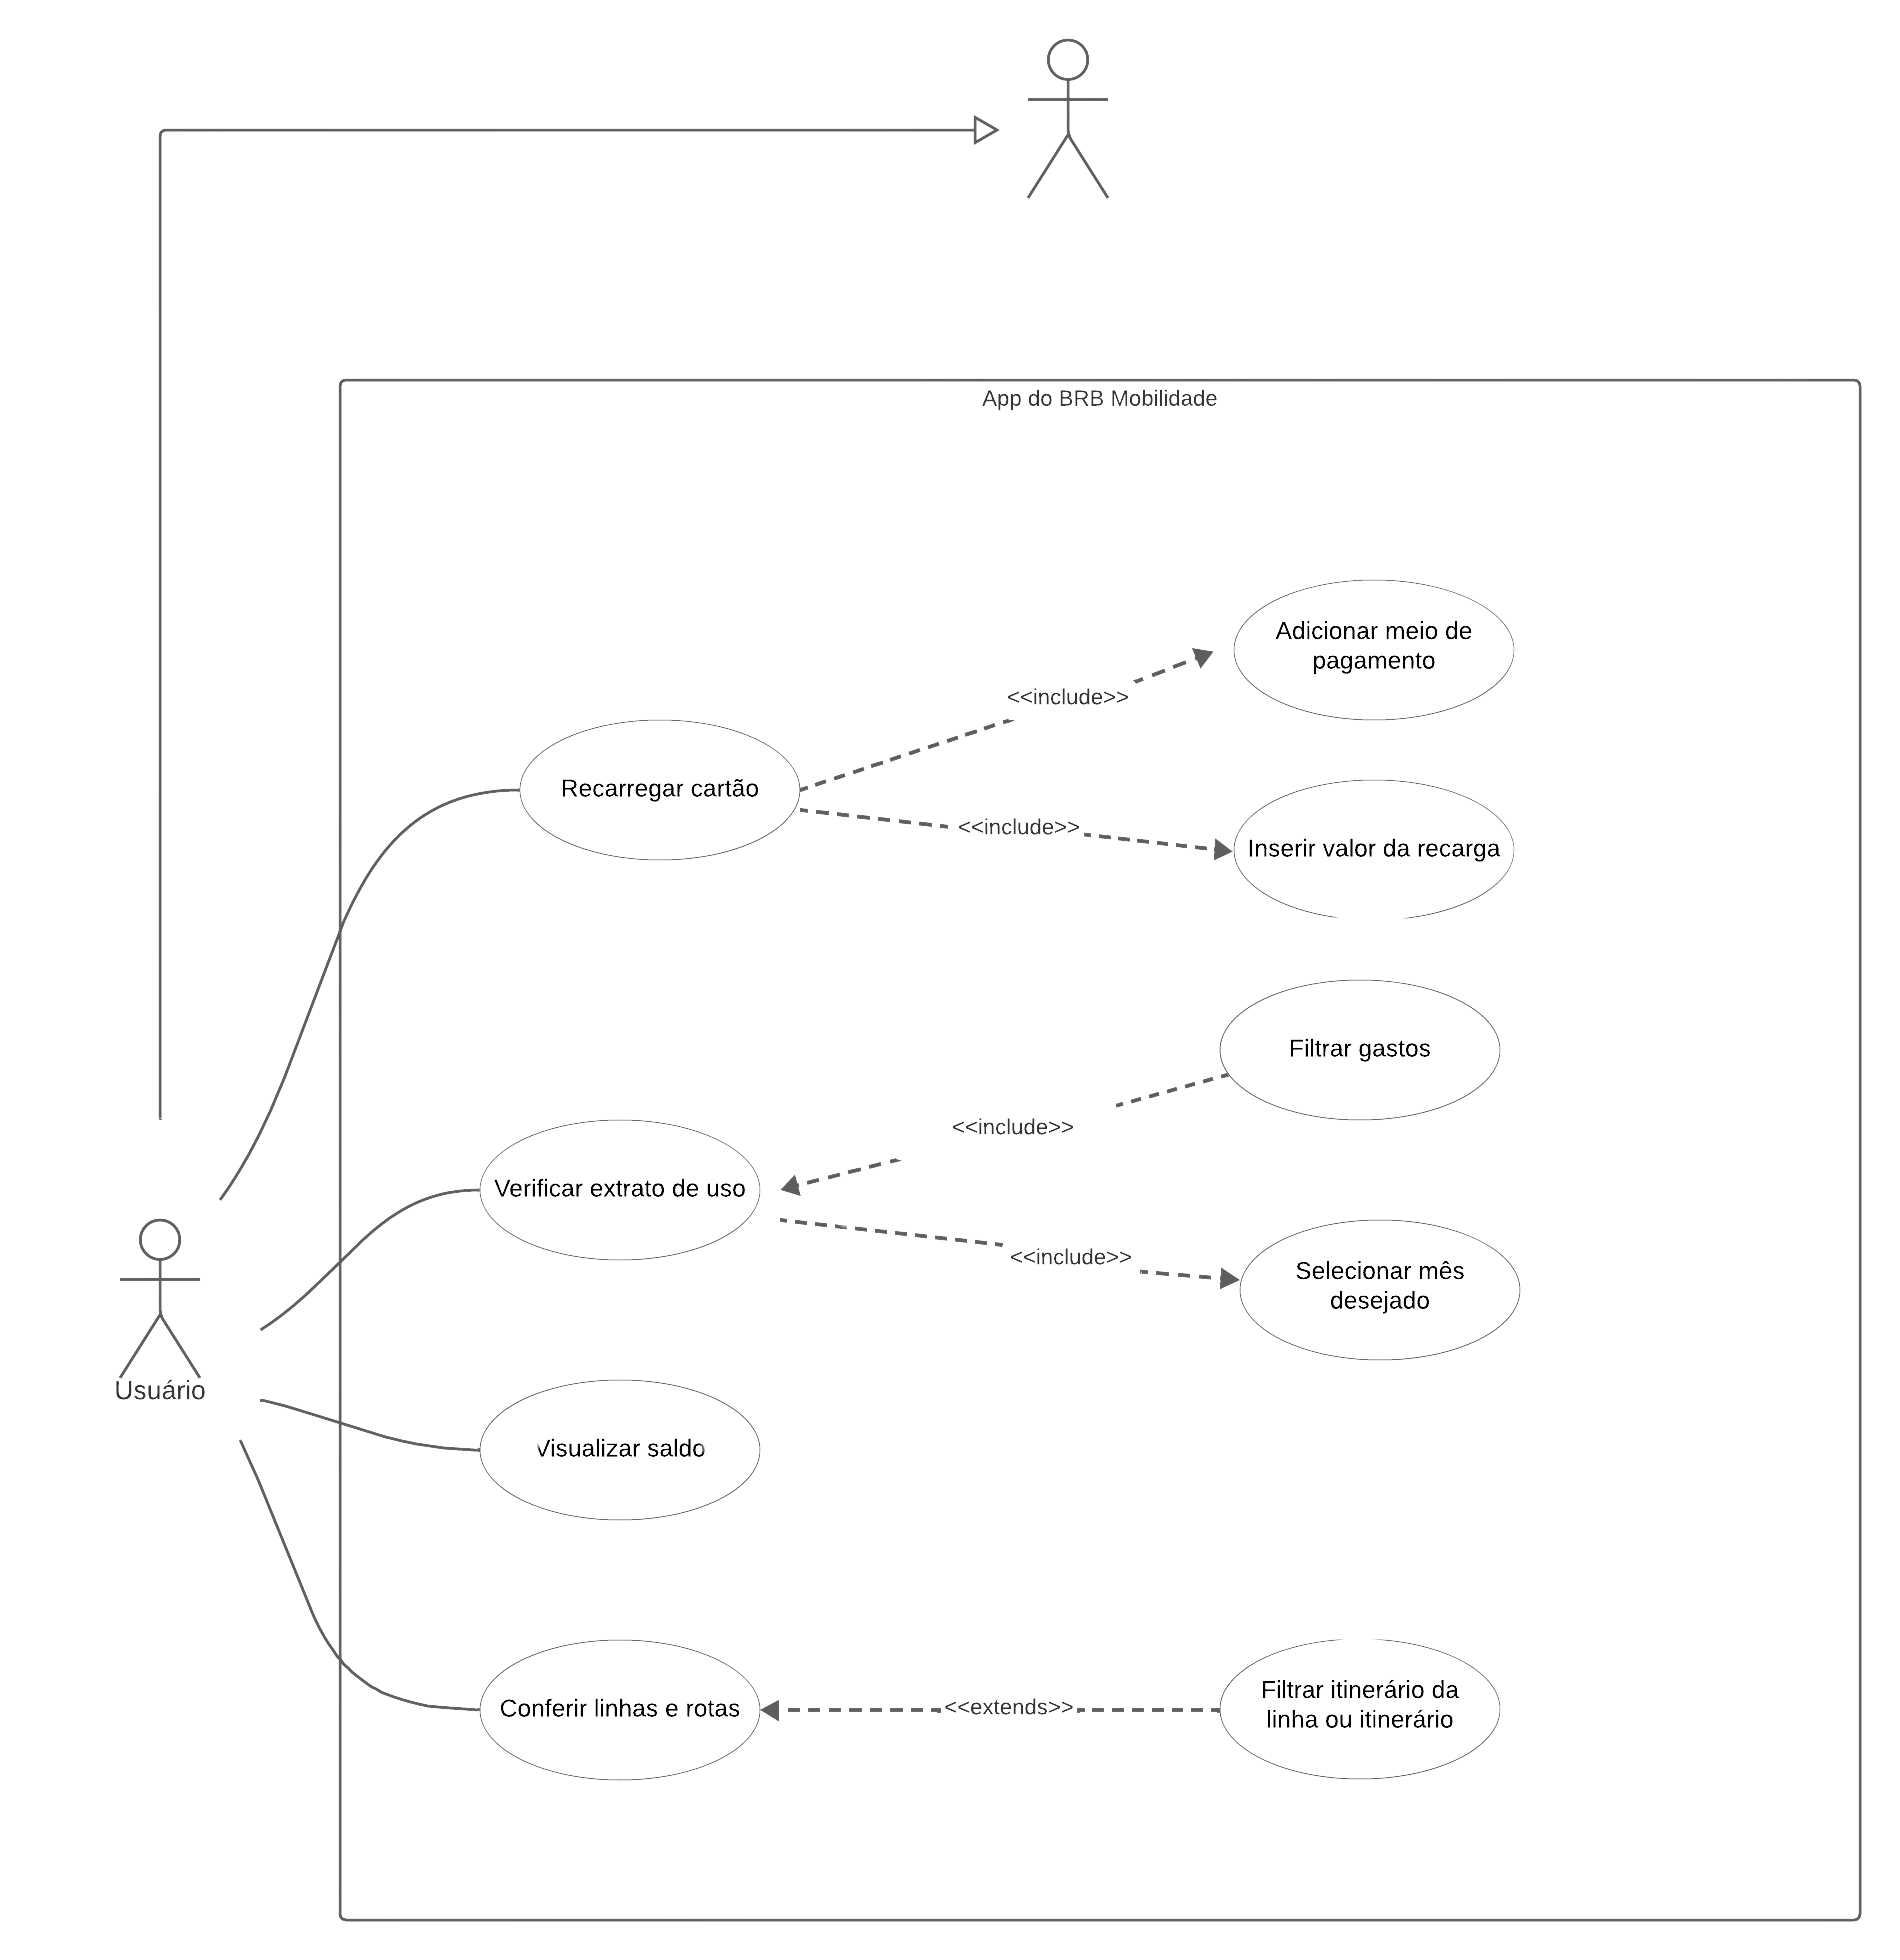
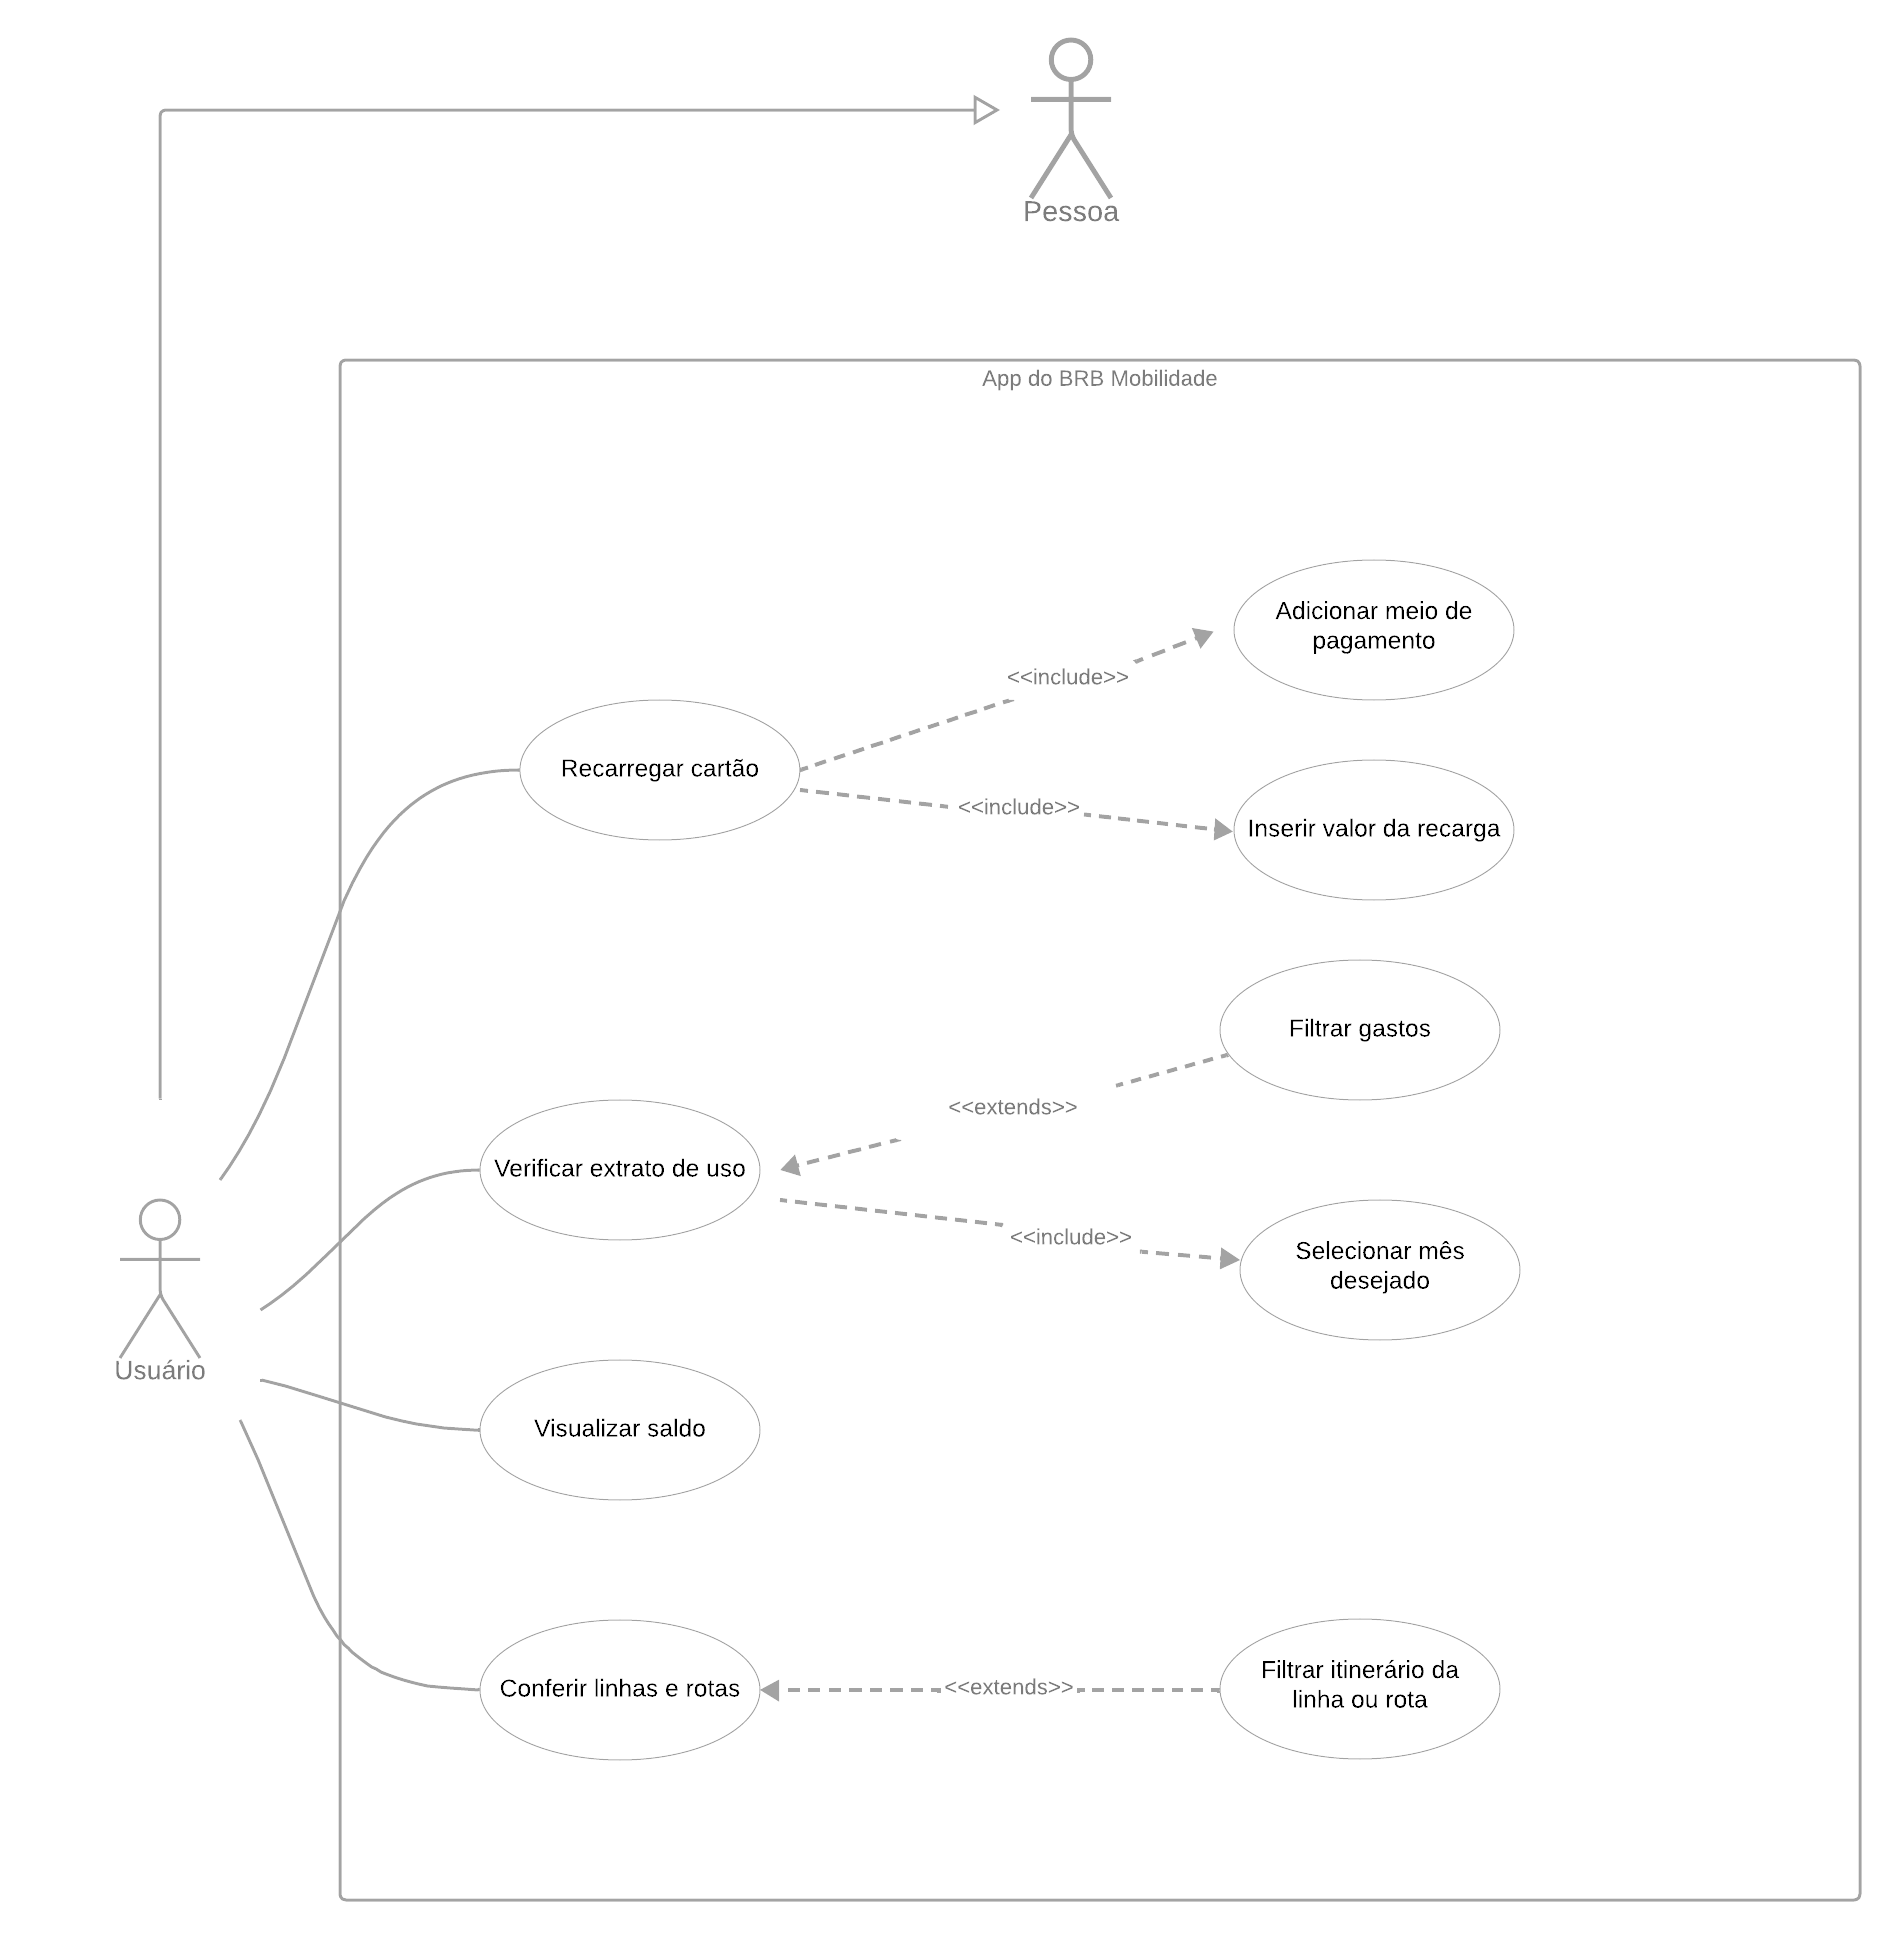
docs: corrige erros de ortografia de casos de uso

diff --git a/docs/modelagem/useCase.md b/docs/modelagem/useCase.md
@@ -17,6 +17,8 @@ Um diagrama de caso de uso é uma representação visual de casos de uso, atores
 
 <font size="2"><p style="text-align: center"><b>Tabela 1: Elementos do diagrama de casos de uso (Fonte: <a href="https://github.com/caioalvesbraga">Caio Braga)</a></b></p></font>
 
+<br><br>
+
 É importante ressaltar que no contexto de diagramas de caso de uso, "extends" e "include" são tipos de relações que descrevem como os casos de uso interagem entre si em um sistema de software. Ambas as relações têm finalidades diferentes e são usadas para modelar diferentes tipos de comportamento no sistema.
 
 - Relação de "Include" (Inclusão):
@@ -36,7 +38,7 @@ Exemplo de "include": Considere um caso de uso principal "Realizar Pagamento". E
 
 Exemplo de "extend": Em um caso de uso "Reservar Quarto de Hotel", pode haver uma extensão para lidar com "Atualização de Reserva", que só ocorre se o cliente desejar modificar a reserva após a confirmação.
 
-
+<br>
 
 ## **Diagrama de Casos de Uso**
 
@@ -46,8 +48,7 @@ A figura 1 demonstra o diagrama de casos de uso.
 
 <img src="../assets/diagrama-caso-de-uso.png" class="usecaseElement">
 
-<font size="2"><p style="text-align: center"><b>Figura 1: Casos de uso do app BRB Mobilidade (Fonte: <a href="https://github.com/caioalvesbraga">Caio Braga)</a>
-
+<font size="2"><p style="text-align: center"><b>Figura 1: Casos de uso do app BRB Mobilidade (Fonte: <a href="https://github.com/caioalvesbraga">Caio Braga)</b></a></font>
 
 
 ## **Casos de Uso & Especificação**
@@ -167,6 +168,12 @@ Tabela 1 – UC01
 |Rastreabilidade| IS01, OBS01 |
 
 <font size="2"><p style="text-align: center"><b>Tabela 7: Visualizar extrato de uso (Fonte: <a href="https://github.com/caioalvesbraga">Caio Braga)</a></b></p></font>
+
+
+## **Validação com o cliente**
+
+<p>O grupo realizou uma reunião de validação com o nosso cliente, que foi gravada e está disponível para acesso <a href="https://www.youtube.com/watch?v=RNz-dVVlj0M">aqui.</a><br><br>Durante a reunião foi abordado com o cliente se ele já conhecia os casos de uso oferecidos pelo aplicativo do BRB Mobilidade que estavam presentes no nosso diagrama, se o diagrama realmente reflete o uso real que ele teve com o sistema.</p>
+
 
 ## **Bibliografia**
 
